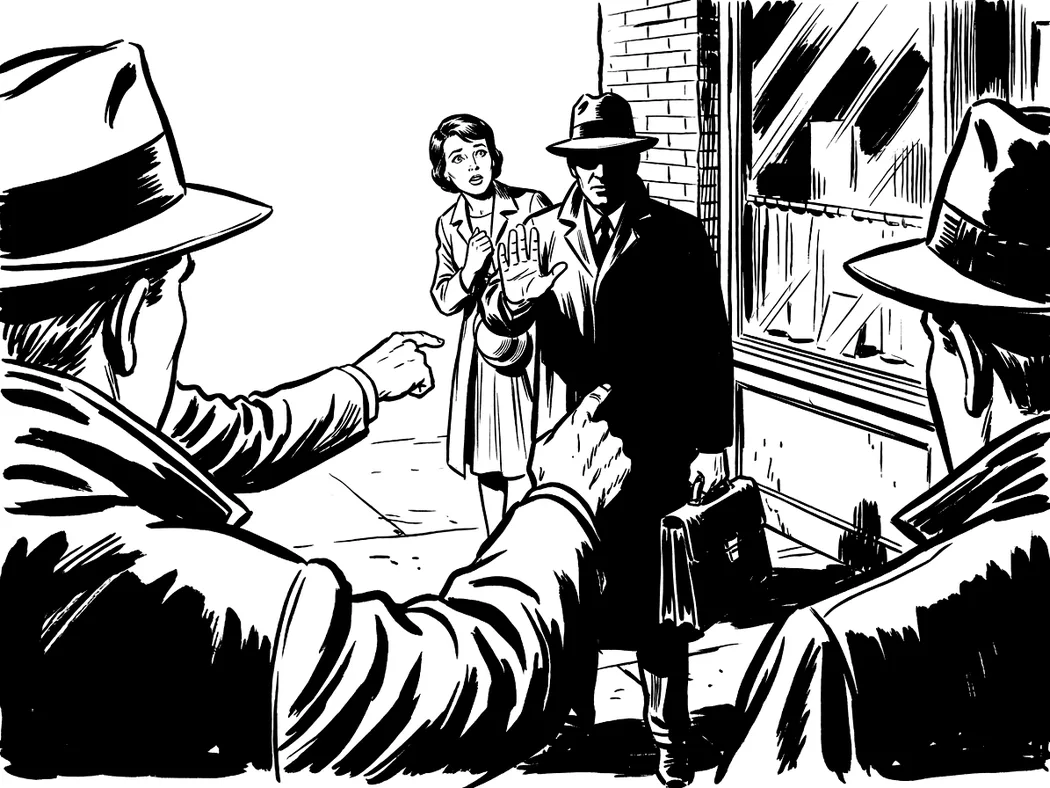
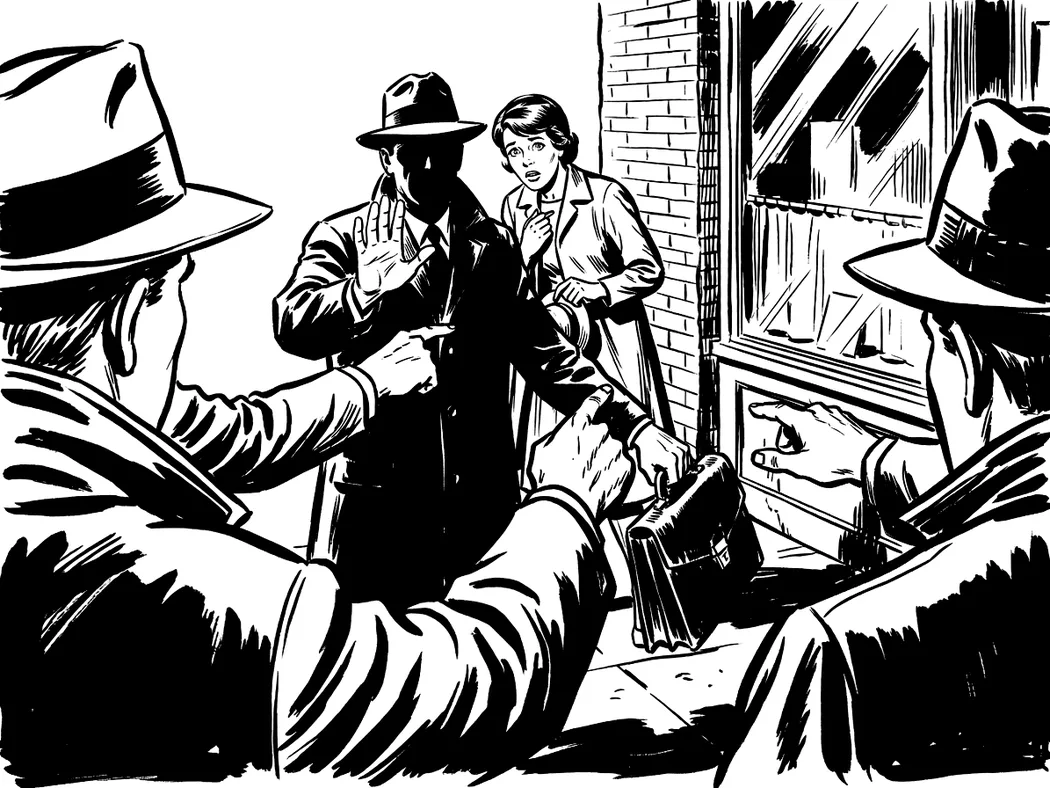
Advokatens roll- och dombilder i motljus med ansiktet i skugga, och agenterna används alltid
Claude-Session: https://claude.ai/code/session_01X82C4D2Hst1n2Ek5hPxuDp

diff --git a/src/scenes/sceneImages.js b/src/scenes/sceneImages.js
@@ -90,8 +90,8 @@ export const SCENE_IMAGES = /** @type {const} */ ({
   roleBodyguardWoman: { src: roleBodyguardWoman, alt: 'En livvakt i trenchcoat och fedora, med uppsatt hår, står i en mörk port i regnet med handen innanför kappan och spanar längs gatan.', position: '80% 30%' },
   roleBodyguardMan: { src: roleBodyguardMan, alt: 'En livvakt med mustasch, i trenchcoat och hatt, står i en mörk port i regnet med handen innanför rocken och spanar längs gatan.', position: '80% 30%' },
   roleDoctorMan: { src: roleDoctorMan, alt: 'En läkare med glasögon och mustasch, i mörk kappa med stetoskop och läkarväska, står i en upplyst dörröppning.', position: '100% 30%' },
-  roleLawyerWoman: { src: roleLawyerWoman, alt: 'En advokat i mörk dräkt och liten hatt kliver med portföljen i handen ut ur ljuset från en glasdörr i tingshusets mörka korridor.', position: '85% 30%' },
-  roleLawyerMan: { src: roleLawyerMan, alt: 'En advokat med mustasch, i kostym med väst och hatt, kliver med portföljen i handen ut ur ljuset från en glasdörr i tingshusets mörka korridor.', position: '85% 30%' },
+  roleLawyerWoman: { src: roleLawyerWoman, alt: 'En advokat i mörk dräkt och liten hatt går med portföljen i handen genom tingshusets korridor, i motljus från en öppen glasdörr.', position: '80% 30%' },
+  roleLawyerMan: { src: roleLawyerMan, alt: 'En advokat med mustasch, i kostym och hatt, går med portföljen i handen genom tingshusets korridor, i motljus från en öppen glasdörr.', position: '80% 30%' },
   roleCitizenWoman: { src: roleCitizenWoman, alt: 'En kvinna i blommig klänning står i sin öppna ytterdörr och ser ut i mörkret med handen mot dörrkarmen.', position: '75% 30%' },
   roleCitizenMan: { src: roleCitizenMan, alt: 'En man i keps och kofta tittar misstänksamt ut genom sin ytterdörr.', position: '100% 30%' },
   roleTaxiDriverWoman: { src: roleTaxiDriverWoman, alt: 'En taxichaufför i skärmmössa och skinnrock sitter vid ratten en regnig natt utanför ett hotell.', position: '100% 30%' },
@@ -143,8 +143,8 @@ export const SCENE_IMAGES = /** @type {const} */ ({
   morningMurderPhoneBoothMan: { src: morningMurderPhoneBoothMan, alt: 'En man i hatt och rock sitter död i en telefonkiosk i regnet. Luren hänger i sin sladd ovanför honom.', position: '45% 50%' },
   morningNoMurder: { src: morningNoMurder, alt: 'En regnvåt gata på morgonen. En mjölkbud ställer flaskor på en trappa, och en man i hatt läser tidningen mot en vägg.', position: '65% 50%' },
   verdictWoman: { src: verdictWoman, alt: 'Två män i hatt pekar på en rädd kvinna som står med hatten i handen vid en tegelvägg.', position: '50% 40%' },
-  verdictLawyerWoman: { src: verdictLawyerWoman, alt: 'Två män i hatt pekar på en rädd kvinna, men en advokat i lång rock med ansiktet i skugga har klivit emellan och håller upp handen.', position: '55% 40%' },
-  verdictLawyerMan: { src: verdictLawyerMan, alt: 'Två män i hatt pekar på en rädd man, men en advokat i lång rock med ansiktet i skugga har klivit emellan och håller upp handen.', position: '55% 40%' },
+  verdictLawyerWoman: { src: verdictLawyerWoman, alt: 'Tre personer i hatt pekar på en rädd kvinna, men en advokat i lång rock med ansiktet i skugga har klivit emellan och håller upp handen.', position: '45% 40%' },
+  verdictLawyerMan: { src: verdictLawyerMan, alt: 'Tre personer i hatt pekar på en rädd man, men en advokat i lång rock med ansiktet i skugga har klivit emellan och håller upp handen.', position: '45% 40%' },
   verdictMan: { src: verdictMan, alt: 'Två män i hatt pekar på en rädd man som står med hatten i händerna vid en tegelvägg.', position: '50% 40%' },
   verdictNobody: { src: verdictNobody, alt: 'Stadsborna står kvar på en våt gata efter omröstningen. Två män skakar hand, några står och tittar, och en man går därifrån.', position: '30% 50%' },
   mafiaWins: { src: mafiaWins, alt: 'Två män i rock och hatt står på ett tak och ser ut över den mörka staden. Den ena tänder en cigarett.', position: '30% 40%' },

diff --git a/CLAUDE.md b/CLAUDE.md
@@ -97,7 +97,8 @@ utseendet. Det viktigaste:
   <mapp>` när bilder läggs till eller byts, och publicera den till samma
   adress så att omdömena följer med.
 - Agenten `bildansvarig` (`.claude/agents/bildansvarig.md`) skriver prompter
-  och kontrollerar bilder. `python3 scripts/generera-bild.py` tar fram en
+  och kontrollerar bilder. Låt den alltid skriva prompterna, ta fram bilderna
+  med Gemini och granska varje ny bild innan den läggs in (Jonas 2026-11-13). `python3 scripts/generera-bild.py` tar fram en
   bild med Geminis Interactions-API (`POST /v1beta/interactions`) och
   modellen `gemini-nano-banana-2.1` (Jonas 2026-11-13). Nyckeln är en Network secret i molnmiljön för
   `generativelanguage.googleapis.com` med headern `x-goog-api-key`, så att
@@ -163,8 +164,8 @@ Skärmbilder i telefonstorlek (390 px) av varje vy för varje telefon:
 I molnmiljön finns Chromium redan; kör inte `playwright install` där.
 
 Agenten `testare` (`.claude/agents/testare.md`) kör allt detta, håller
-regellistan komplett och tittar på bilderna. Be den om ett test efter
-ändringar i regler, vyer eller nätverk.
+regellistan komplett och tittar på bilderna. Kör den alltid före en PR som
+ändrar regler, vyer eller nätverk (Jonas 2026-11-13).
 
 ## Mobillayout i Safari: knappar och bakgrund längst ner
 
